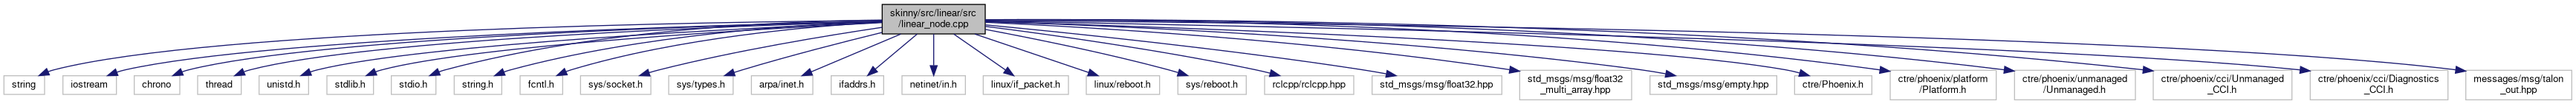
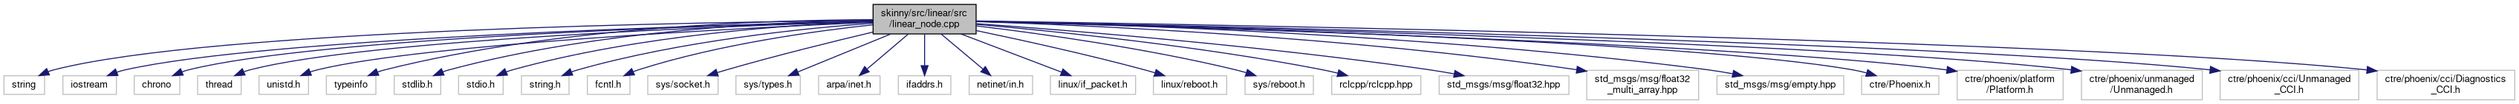
deploy: 15e35bd516d762acbb522a4fcb0b9775ea4a27ae

diff --git a/linear__node_8cpp.html b/linear__node_8cpp.html
@@ -81,6 +81,7 @@ $(function() {
 <code>#include &lt;chrono&gt;</code><br />
 <code>#include &lt;thread&gt;</code><br />
 <code>#include &lt;unistd.h&gt;</code><br />
+<code>#include &lt;typeinfo&gt;</code><br />
 <code>#include &lt;stdlib.h&gt;</code><br />
 <code>#include &lt;stdio.h&gt;</code><br />
 <code>#include &lt;string.h&gt;</code><br />
@@ -102,40 +103,39 @@ $(function() {
 <code>#include &lt;ctre/phoenix/unmanaged/Unmanaged.h&gt;</code><br />
 <code>#include &lt;ctre/phoenix/cci/Unmanaged_CCI.h&gt;</code><br />
 <code>#include &lt;ctre/phoenix/cci/Diagnostics_CCI.h&gt;</code><br />
-<code>#include &quot;messages/msg/talon_out.hpp&quot;</code><br />
 </div><div class="textblock"><div class="dynheader">
 Include dependency graph for linear_node.cpp:</div>
 <div class="dyncontent">
 <div class="center"><img src="linear__node_8cpp__incl.png" border="0" usemap="#askinny_2src_2linear_2src_2linear__node_8cpp" alt=""/></div>
 <map name="askinny_2src_2linear_2src_2linear__node_8cpp" id="askinny_2src_2linear_2src_2linear__node_8cpp">
-<area shape="rect" title="Node controlling one Talon motor controller attached to a linear actuator." alt="" coords="1187,5,1326,47"/>
+<area shape="rect" title="Node controlling one Talon motor controller attached to a linear actuator." alt="" coords="1175,5,1314,47"/>
 <area shape="rect" title=" " alt="" coords="5,102,60,129"/>
 <area shape="rect" title=" " alt="" coords="85,102,157,129"/>
 <area shape="rect" title=" " alt="" coords="181,102,242,129"/>
 <area shape="rect" title=" " alt="" coords="266,102,325,129"/>
 <area shape="rect" title=" " alt="" coords="349,102,415,129"/>
-<area shape="rect" title=" " alt="" coords="440,102,503,129"/>
-<area shape="rect" title=" " alt="" coords="527,102,587,129"/>
-<area shape="rect" title=" " alt="" coords="611,102,675,129"/>
-<area shape="rect" title=" " alt="" coords="700,102,757,129"/>
-<area shape="rect" title=" " alt="" coords="781,102,876,129"/>
-<area shape="rect" title=" " alt="" coords="900,102,987,129"/>
-<area shape="rect" title=" " alt="" coords="1011,102,1094,129"/>
-<area shape="rect" title=" " alt="" coords="1119,102,1189,129"/>
-<area shape="rect" title=" " alt="" coords="1214,102,1299,129"/>
-<area shape="rect" title=" " alt="" coords="1323,102,1438,129"/>
-<area shape="rect" title=" " alt="" coords="1462,102,1561,129"/>
-<area shape="rect" title=" " alt="" coords="1585,102,1677,129"/>
-<area shape="rect" title=" " alt="" coords="1702,102,1822,129"/>
-<area shape="rect" title=" " alt="" coords="1847,102,2021,129"/>
-<area shape="rect" title=" " alt="" coords="2045,95,2196,136"/>
-<area shape="rect" title=" " alt="" coords="2221,102,2391,129"/>
-<area shape="rect" title=" " alt="" coords="2415,102,2519,129"/>
-<area shape="rect" title=" " alt="" coords="2544,95,2687,136"/>
-<area shape="rect" title=" " alt="" coords="2711,95,2874,136"/>
-<area shape="rect" title=" " alt="" coords="2898,95,3085,136"/>
-<area shape="rect" title=" " alt="" coords="3109,95,3295,136"/>
-<area shape="rect" title=" " alt="" coords="3319,95,3461,136"/>
+<area shape="rect" title=" " alt="" coords="439,102,506,129"/>
+<area shape="rect" title=" " alt="" coords="531,102,593,129"/>
+<area shape="rect" title=" " alt="" coords="617,102,677,129"/>
+<area shape="rect" title=" " alt="" coords="702,102,766,129"/>
+<area shape="rect" title=" " alt="" coords="791,102,848,129"/>
+<area shape="rect" title=" " alt="" coords="872,102,967,129"/>
+<area shape="rect" title=" " alt="" coords="991,102,1077,129"/>
+<area shape="rect" title=" " alt="" coords="1102,102,1185,129"/>
+<area shape="rect" title=" " alt="" coords="1209,102,1280,129"/>
+<area shape="rect" title=" " alt="" coords="1305,102,1390,129"/>
+<area shape="rect" title=" " alt="" coords="1414,102,1529,129"/>
+<area shape="rect" title=" " alt="" coords="1553,102,1651,129"/>
+<area shape="rect" title=" " alt="" coords="1676,102,1768,129"/>
+<area shape="rect" title=" " alt="" coords="1793,102,1913,129"/>
+<area shape="rect" title=" " alt="" coords="1937,102,2112,129"/>
+<area shape="rect" title=" " alt="" coords="2136,95,2287,136"/>
+<area shape="rect" title=" " alt="" coords="2311,102,2482,129"/>
+<area shape="rect" title=" " alt="" coords="2506,102,2610,129"/>
+<area shape="rect" title=" " alt="" coords="2635,95,2777,136"/>
+<area shape="rect" title=" " alt="" coords="2802,95,2965,136"/>
+<area shape="rect" title=" " alt="" coords="2989,95,3175,136"/>
+<area shape="rect" title=" " alt="" coords="3200,95,3385,136"/>
 </map>
 </div>
 </div><table class="memberdecls">
@@ -154,10 +154,10 @@ Functions</h2></td></tr>
 <tr class="memitem:a9fa86cd5e61e40487c91964c30a994a5"><td class="memTemplItemLeft" align="right" valign="top">T&#160;</td><td class="memTemplItemRight" valign="bottom"><a class="el" href="linear__node_8cpp.html#a9fa86cd5e61e40487c91964c30a994a5">getParameter</a> (std::string parameterName, std::string initialValue)</td></tr>
 <tr class="memdesc:a9fa86cd5e61e40487c91964c30a994a5"><td class="mdescLeft">&#160;</td><td class="mdescRight">String parameter function.  <a href="linear__node_8cpp.html#a9fa86cd5e61e40487c91964c30a994a5">More...</a><br /></td></tr>
 <tr class="separator:a9fa86cd5e61e40487c91964c30a994a5"><td class="memSeparator" colspan="2">&#160;</td></tr>
-<tr class="memitem:ac65fb8780f198b58ddd2c97239a56a3e"><td class="memTemplParams" colspan="2">template&lt;typename T &gt; </td></tr>
-<tr class="memitem:ac65fb8780f198b58ddd2c97239a56a3e"><td class="memTemplItemLeft" align="right" valign="top">T&#160;</td><td class="memTemplItemRight" valign="bottom"><a class="el" href="linear__node_8cpp.html#ac65fb8780f198b58ddd2c97239a56a3e">getParameter</a> (std::string parameterName, int initialValue, int type)</td></tr>
-<tr class="memdesc:ac65fb8780f198b58ddd2c97239a56a3e"><td class="mdescLeft">&#160;</td><td class="mdescRight">Parameter function.  <a href="linear__node_8cpp.html#ac65fb8780f198b58ddd2c97239a56a3e">More...</a><br /></td></tr>
-<tr class="separator:ac65fb8780f198b58ddd2c97239a56a3e"><td class="memSeparator" colspan="2">&#160;</td></tr>
+<tr class="memitem:aa903d89d8ab094667744020aac5b6ad7"><td class="memTemplParams" colspan="2">template&lt;typename T &gt; </td></tr>
+<tr class="memitem:aa903d89d8ab094667744020aac5b6ad7"><td class="memTemplItemLeft" align="right" valign="top">T&#160;</td><td class="memTemplItemRight" valign="bottom"><a class="el" href="linear__node_8cpp.html#aa903d89d8ab094667744020aac5b6ad7">getParameter</a> (std::string parameterName, int initialValue)</td></tr>
+<tr class="memdesc:aa903d89d8ab094667744020aac5b6ad7"><td class="mdescLeft">&#160;</td><td class="mdescRight">Function to get the value of the specified parameter.  <a href="linear__node_8cpp.html#aa903d89d8ab094667744020aac5b6ad7">More...</a><br /></td></tr>
+<tr class="separator:aa903d89d8ab094667744020aac5b6ad7"><td class="memSeparator" colspan="2">&#160;</td></tr>
 <tr class="memitem:a3c04138a5bfe5d72780bb7e82a18e627"><td class="memItemLeft" align="right" valign="top"><a id="a3c04138a5bfe5d72780bb7e82a18e627" name="a3c04138a5bfe5d72780bb7e82a18e627"></a>
 int&#160;</td><td class="memItemRight" valign="bottom"><b>main</b> (int argc, char **argv)</td></tr>
 <tr class="separator:a3c04138a5bfe5d72780bb7e82a18e627"><td class="memSeparator" colspan="2">&#160;</td></tr>
@@ -198,8 +198,8 @@ TalonSRX *&#160;</td><td class="memItemRight" valign="bottom"><b>talonSRX</b></t
 </ul>
 <p>This string has the general form talon_{motorNumber}_info and is defined by the user in the launch file. To read more about the launch file, </p><dl class="section see"><dt>See also</dt><dd><a class="el" href="launch_8py.html" title="Launch file that contains all the nodes necessary to run the robot.">launch.py</a> </dd></dl>
 </div><h2 class="groupheader">Function Documentation</h2>
-<a id="ac65fb8780f198b58ddd2c97239a56a3e" name="ac65fb8780f198b58ddd2c97239a56a3e"></a>
-<h2 class="memtitle"><span class="permalink"><a href="#ac65fb8780f198b58ddd2c97239a56a3e">&#9670;&nbsp;</a></span>getParameter() <span class="overload">[1/2]</span></h2>
+<a id="aa903d89d8ab094667744020aac5b6ad7" name="aa903d89d8ab094667744020aac5b6ad7"></a>
+<h2 class="memtitle"><span class="permalink"><a href="#aa903d89d8ab094667744020aac5b6ad7">&#9670;&nbsp;</a></span>getParameter() <span class="overload">[1/2]</span></h2>
 
 <div class="memitem">
 <div class="memproto">
@@ -216,13 +216,7 @@ template&lt;typename T &gt; </div>
           <td class="paramkey"></td>
           <td></td>
           <td class="paramtype">int&#160;</td>
-          <td class="paramname"><em>initialValue</em>, </td>
-        </tr>
-        <tr>
-          <td class="paramkey"></td>
-          <td></td>
-          <td class="paramtype">int&#160;</td>
-          <td class="paramname"><em>type</em>&#160;</td>
+          <td class="paramname"><em>initialValue</em>&#160;</td>
         </tr>
         <tr>
           <td></td>
@@ -232,12 +226,11 @@ template&lt;typename T &gt; </div>
       </table>
 </div><div class="memdoc">
 
-<p>Parameter function. </p>
-<p >Function that takes a string as a parameter containing the name of the parameter that is being parsed from the launch file and the initial value of the parameter as inputs, then gets the parameter, casts it as the desired type, displays the value of the parameter on the command line and the log file, then returns the parsed value of the parameter. The type parameter uses the following values: 0 - Int 1 - Bool 2 - Double </p><dl class="params"><dt>Parameters</dt><dd>
+<p>Function to get the value of the specified parameter. </p>
+<p >Function that takes a string as a parameter containing the name of the parameter that is being parsed from the launch file and the initial value of the parameter as inputs, then gets the parameter, casts it as the desired type, displays the value of the parameter on the command line and the log file, then returns the parsed value of the parameter. </p><dl class="params"><dt>Parameters</dt><dd>
   <table class="params">
     <tr><td class="paramname">parametername</td><td>String of the name of the parameter </td></tr>
     <tr><td class="paramname">initialValue</td><td>Initial value of the parameter </td></tr>
-    <tr><td class="paramname">type</td><td>Specifies the desired type </td></tr>
   </table>
   </dd>
 </dl>

diff --git a/talon__node_8cpp.html b/talon__node_8cpp.html
@@ -81,6 +81,7 @@ $(function() {
 <code>#include &lt;chrono&gt;</code><br />
 <code>#include &lt;thread&gt;</code><br />
 <code>#include &lt;unistd.h&gt;</code><br />
+<code>#include &lt;typeinfo&gt;</code><br />
 <code>#include &lt;stdlib.h&gt;</code><br />
 <code>#include &lt;stdio.h&gt;</code><br />
 <code>#include &lt;string.h&gt;</code><br />
@@ -108,34 +109,35 @@ Include dependency graph for talon_node.cpp:</div>
 <div class="dyncontent">
 <div class="center"><img src="talon__node_8cpp__incl.png" border="0" usemap="#askinny_2src_2talon_2src_2talon__node_8cpp" alt=""/></div>
 <map name="askinny_2src_2talon_2src_2talon__node_8cpp" id="askinny_2src_2talon_2src_2talon__node_8cpp">
-<area shape="rect" title="Node controlling one Talon motor." alt="" coords="1189,5,1324,47"/>
+<area shape="rect" title="Node controlling one Talon motor." alt="" coords="1228,5,1363,47"/>
 <area shape="rect" title=" " alt="" coords="5,102,60,129"/>
 <area shape="rect" title=" " alt="" coords="85,102,157,129"/>
 <area shape="rect" title=" " alt="" coords="181,102,242,129"/>
 <area shape="rect" title=" " alt="" coords="266,102,325,129"/>
 <area shape="rect" title=" " alt="" coords="349,102,415,129"/>
-<area shape="rect" title=" " alt="" coords="440,102,503,129"/>
-<area shape="rect" title=" " alt="" coords="527,102,587,129"/>
-<area shape="rect" title=" " alt="" coords="611,102,675,129"/>
-<area shape="rect" title=" " alt="" coords="700,102,757,129"/>
-<area shape="rect" title=" " alt="" coords="781,102,876,129"/>
-<area shape="rect" title=" " alt="" coords="900,102,987,129"/>
-<area shape="rect" title=" " alt="" coords="1011,102,1094,129"/>
-<area shape="rect" title=" " alt="" coords="1119,102,1189,129"/>
-<area shape="rect" title=" " alt="" coords="1214,102,1299,129"/>
-<area shape="rect" title=" " alt="" coords="1323,102,1438,129"/>
-<area shape="rect" title=" " alt="" coords="1462,102,1561,129"/>
-<area shape="rect" title=" " alt="" coords="1585,102,1677,129"/>
-<area shape="rect" title=" " alt="" coords="1702,102,1822,129"/>
-<area shape="rect" title=" " alt="" coords="1847,102,2021,129"/>
-<area shape="rect" title=" " alt="" coords="2045,95,2196,136"/>
-<area shape="rect" title=" " alt="" coords="2221,102,2391,129"/>
-<area shape="rect" title=" " alt="" coords="2415,102,2519,129"/>
-<area shape="rect" title=" " alt="" coords="2544,95,2687,136"/>
-<area shape="rect" title=" " alt="" coords="2711,95,2874,136"/>
-<area shape="rect" title=" " alt="" coords="2898,95,3085,136"/>
-<area shape="rect" title=" " alt="" coords="3109,95,3295,136"/>
-<area shape="rect" title=" " alt="" coords="3319,95,3461,136"/>
+<area shape="rect" title=" " alt="" coords="439,102,506,129"/>
+<area shape="rect" title=" " alt="" coords="531,102,593,129"/>
+<area shape="rect" title=" " alt="" coords="617,102,677,129"/>
+<area shape="rect" title=" " alt="" coords="702,102,766,129"/>
+<area shape="rect" title=" " alt="" coords="791,102,848,129"/>
+<area shape="rect" title=" " alt="" coords="872,102,967,129"/>
+<area shape="rect" title=" " alt="" coords="991,102,1077,129"/>
+<area shape="rect" title=" " alt="" coords="1102,102,1185,129"/>
+<area shape="rect" title=" " alt="" coords="1209,102,1280,129"/>
+<area shape="rect" title=" " alt="" coords="1305,102,1390,129"/>
+<area shape="rect" title=" " alt="" coords="1414,102,1529,129"/>
+<area shape="rect" title=" " alt="" coords="1553,102,1651,129"/>
+<area shape="rect" title=" " alt="" coords="1676,102,1768,129"/>
+<area shape="rect" title=" " alt="" coords="1793,102,1913,129"/>
+<area shape="rect" title=" " alt="" coords="1937,102,2112,129"/>
+<area shape="rect" title=" " alt="" coords="2136,95,2287,136"/>
+<area shape="rect" title=" " alt="" coords="2311,102,2482,129"/>
+<area shape="rect" title=" " alt="" coords="2506,102,2610,129"/>
+<area shape="rect" title=" " alt="" coords="2635,95,2777,136"/>
+<area shape="rect" title=" " alt="" coords="2802,95,2965,136"/>
+<area shape="rect" title=" " alt="" coords="2989,95,3175,136"/>
+<area shape="rect" title=" " alt="" coords="3200,95,3385,136"/>
+<area shape="rect" title=" " alt="" coords="3409,95,3552,136"/>
 </map>
 </div>
 </div><table class="memberdecls">
@@ -154,10 +156,10 @@ Functions</h2></td></tr>
 <tr class="memitem:a9fa86cd5e61e40487c91964c30a994a5"><td class="memTemplItemLeft" align="right" valign="top">T&#160;</td><td class="memTemplItemRight" valign="bottom"><a class="el" href="talon__node_8cpp.html#a9fa86cd5e61e40487c91964c30a994a5">getParameter</a> (std::string parameterName, std::string initialValue)</td></tr>
 <tr class="memdesc:a9fa86cd5e61e40487c91964c30a994a5"><td class="mdescLeft">&#160;</td><td class="mdescRight">String parameter function.  <a href="talon__node_8cpp.html#a9fa86cd5e61e40487c91964c30a994a5">More...</a><br /></td></tr>
 <tr class="separator:a9fa86cd5e61e40487c91964c30a994a5"><td class="memSeparator" colspan="2">&#160;</td></tr>
-<tr class="memitem:ac65fb8780f198b58ddd2c97239a56a3e"><td class="memTemplParams" colspan="2">template&lt;typename T &gt; </td></tr>
-<tr class="memitem:ac65fb8780f198b58ddd2c97239a56a3e"><td class="memTemplItemLeft" align="right" valign="top">T&#160;</td><td class="memTemplItemRight" valign="bottom"><a class="el" href="talon__node_8cpp.html#ac65fb8780f198b58ddd2c97239a56a3e">getParameter</a> (std::string parameterName, int initialValue, int type)</td></tr>
-<tr class="memdesc:ac65fb8780f198b58ddd2c97239a56a3e"><td class="mdescLeft">&#160;</td><td class="mdescRight">Parameter function.  <a href="talon__node_8cpp.html#ac65fb8780f198b58ddd2c97239a56a3e">More...</a><br /></td></tr>
-<tr class="separator:ac65fb8780f198b58ddd2c97239a56a3e"><td class="memSeparator" colspan="2">&#160;</td></tr>
+<tr class="memitem:aa903d89d8ab094667744020aac5b6ad7"><td class="memTemplParams" colspan="2">template&lt;typename T &gt; </td></tr>
+<tr class="memitem:aa903d89d8ab094667744020aac5b6ad7"><td class="memTemplItemLeft" align="right" valign="top">T&#160;</td><td class="memTemplItemRight" valign="bottom"><a class="el" href="talon__node_8cpp.html#aa903d89d8ab094667744020aac5b6ad7">getParameter</a> (std::string parameterName, int initialValue)</td></tr>
+<tr class="memdesc:aa903d89d8ab094667744020aac5b6ad7"><td class="mdescLeft">&#160;</td><td class="mdescRight">Function to get the value of the specified parameter.  <a href="talon__node_8cpp.html#aa903d89d8ab094667744020aac5b6ad7">More...</a><br /></td></tr>
+<tr class="separator:aa903d89d8ab094667744020aac5b6ad7"><td class="memSeparator" colspan="2">&#160;</td></tr>
 <tr class="memitem:a3c04138a5bfe5d72780bb7e82a18e627"><td class="memItemLeft" align="right" valign="top"><a id="a3c04138a5bfe5d72780bb7e82a18e627" name="a3c04138a5bfe5d72780bb7e82a18e627"></a>
 int&#160;</td><td class="memItemRight" valign="bottom"><b>main</b> (int argc, char **argv)</td></tr>
 <tr class="separator:a3c04138a5bfe5d72780bb7e82a18e627"><td class="memSeparator" colspan="2">&#160;</td></tr>
@@ -198,8 +200,8 @@ TalonSRX *&#160;</td><td class="memItemRight" valign="bottom"><b>talonSRX</b></t
 </ul>
 <p>This string has the general form talon_{motorNumber}_info and is defined by the user in the launch file. To read more about the launch file, </p><dl class="section see"><dt>See also</dt><dd><a class="el" href="launch_8py.html" title="Launch file that contains all the nodes necessary to run the robot.">launch.py</a> </dd></dl>
 </div><h2 class="groupheader">Function Documentation</h2>
-<a id="ac65fb8780f198b58ddd2c97239a56a3e" name="ac65fb8780f198b58ddd2c97239a56a3e"></a>
-<h2 class="memtitle"><span class="permalink"><a href="#ac65fb8780f198b58ddd2c97239a56a3e">&#9670;&nbsp;</a></span>getParameter() <span class="overload">[1/2]</span></h2>
+<a id="aa903d89d8ab094667744020aac5b6ad7" name="aa903d89d8ab094667744020aac5b6ad7"></a>
+<h2 class="memtitle"><span class="permalink"><a href="#aa903d89d8ab094667744020aac5b6ad7">&#9670;&nbsp;</a></span>getParameter() <span class="overload">[1/2]</span></h2>
 
 <div class="memitem">
 <div class="memproto">
@@ -216,13 +218,7 @@ template&lt;typename T &gt; </div>
           <td class="paramkey"></td>
           <td></td>
           <td class="paramtype">int&#160;</td>
-          <td class="paramname"><em>initialValue</em>, </td>
-        </tr>
-        <tr>
-          <td class="paramkey"></td>
-          <td></td>
-          <td class="paramtype">int&#160;</td>
-          <td class="paramname"><em>type</em>&#160;</td>
+          <td class="paramname"><em>initialValue</em>&#160;</td>
         </tr>
         <tr>
           <td></td>
@@ -232,12 +228,11 @@ template&lt;typename T &gt; </div>
       </table>
 </div><div class="memdoc">
 
-<p>Parameter function. </p>
-<p >Function that takes a string as a parameter containing the name of the parameter that is being parsed from the launch file and the initial value of the parameter as inputs, then gets the parameter, casts it as the desired type, displays the value of the parameter on the command line and the log file, then returns the parsed value of the parameter. The type parameter uses the following values: 0 - Int 1 - Bool 2 - Double </p><dl class="params"><dt>Parameters</dt><dd>
+<p>Function to get the value of the specified parameter. </p>
+<p >Function that takes a string as a parameter containing the name of the parameter that is being parsed from the launch file and the initial value of the parameter as inputs, then gets the parameter, casts it as the desired type, displays the value of the parameter on the command line and the log file, then returns the parsed value of the parameter. </p><dl class="params"><dt>Parameters</dt><dd>
   <table class="params">
     <tr><td class="paramname">parametername</td><td>String of the name of the parameter </td></tr>
     <tr><td class="paramname">initialValue</td><td>Initial value of the parameter </td></tr>
-    <tr><td class="paramname">type</td><td>Specifies the desired type </td></tr>
   </table>
   </dd>
 </dl>

diff --git a/neo__node_8cpp.html b/neo__node_8cpp.html
@@ -80,6 +80,7 @@ $(function() {
 <code>#include &lt;chrono&gt;</code><br />
 <code>#include &lt;thread&gt;</code><br />
 <code>#include &lt;unistd.h&gt;</code><br />
+<code>#include &lt;typeinfo&gt;</code><br />
 <code>#include &lt;stdlib.h&gt;</code><br />
 <code>#include &lt;stdio.h&gt;</code><br />
 <code>#include &lt;string.h&gt;</code><br />
@@ -102,29 +103,30 @@ Include dependency graph for neo_node.cpp:</div>
 <div class="dyncontent">
 <div class="center"><img src="neo__node_8cpp__incl.png" border="0" usemap="#askinny_2src_2neo_2src_2neo__node_8cpp" alt=""/></div>
 <map name="askinny_2src_2neo_2src_2neo__node_8cpp" id="askinny_2src_2neo_2src_2neo__node_8cpp">
-<area shape="rect" title="Node controlling one Neo motor." alt="" coords="934,5,1062,47"/>
+<area shape="rect" title="Node controlling one Neo motor." alt="" coords="970,5,1098,47"/>
 <area shape="rect" title=" " alt="" coords="5,102,60,129"/>
 <area shape="rect" title=" " alt="" coords="85,102,157,129"/>
 <area shape="rect" title=" " alt="" coords="181,102,242,129"/>
 <area shape="rect" title=" " alt="" coords="266,102,325,129"/>
 <area shape="rect" title=" " alt="" coords="349,102,415,129"/>
-<area shape="rect" title=" " alt="" coords="440,102,503,129"/>
-<area shape="rect" title=" " alt="" coords="527,102,587,129"/>
-<area shape="rect" title=" " alt="" coords="611,102,675,129"/>
-<area shape="rect" title=" " alt="" coords="700,102,757,129"/>
-<area shape="rect" title=" " alt="" coords="781,102,876,129"/>
-<area shape="rect" title=" " alt="" coords="900,102,987,129"/>
-<area shape="rect" title=" " alt="" coords="1011,102,1094,129"/>
-<area shape="rect" title=" " alt="" coords="1119,102,1189,129"/>
-<area shape="rect" title=" " alt="" coords="1214,102,1299,129"/>
-<area shape="rect" title=" " alt="" coords="1323,102,1438,129"/>
-<area shape="rect" title=" " alt="" coords="1462,102,1561,129"/>
-<area shape="rect" title=" " alt="" coords="1585,102,1677,129"/>
-<area shape="rect" title=" " alt="" coords="1702,102,1822,129"/>
-<area shape="rect" title=" " alt="" coords="1847,102,2021,129"/>
-<area shape="rect" title=" " alt="" coords="2045,95,2196,136"/>
-<area shape="rect" title=" " alt="" coords="2221,102,2391,129"/>
-<area shape="rect" title=" " alt="" coords="2416,102,2556,129"/>
+<area shape="rect" title=" " alt="" coords="439,102,506,129"/>
+<area shape="rect" title=" " alt="" coords="531,102,593,129"/>
+<area shape="rect" title=" " alt="" coords="617,102,677,129"/>
+<area shape="rect" title=" " alt="" coords="702,102,766,129"/>
+<area shape="rect" title=" " alt="" coords="791,102,848,129"/>
+<area shape="rect" title=" " alt="" coords="872,102,967,129"/>
+<area shape="rect" title=" " alt="" coords="991,102,1077,129"/>
+<area shape="rect" title=" " alt="" coords="1102,102,1185,129"/>
+<area shape="rect" title=" " alt="" coords="1209,102,1280,129"/>
+<area shape="rect" title=" " alt="" coords="1305,102,1390,129"/>
+<area shape="rect" title=" " alt="" coords="1414,102,1529,129"/>
+<area shape="rect" title=" " alt="" coords="1553,102,1651,129"/>
+<area shape="rect" title=" " alt="" coords="1676,102,1768,129"/>
+<area shape="rect" title=" " alt="" coords="1793,102,1913,129"/>
+<area shape="rect" title=" " alt="" coords="1937,102,2112,129"/>
+<area shape="rect" title=" " alt="" coords="2136,95,2287,136"/>
+<area shape="rect" title=" " alt="" coords="2311,102,2482,129"/>
+<area shape="rect" title=" " alt="" coords="2507,102,2647,129"/>
 </map>
 </div>
 </div><table class="memberdecls">
@@ -143,10 +145,10 @@ Functions</h2></td></tr>
 <tr class="memitem:a9fa86cd5e61e40487c91964c30a994a5"><td class="memTemplItemLeft" align="right" valign="top">T&#160;</td><td class="memTemplItemRight" valign="bottom"><a class="el" href="neo__node_8cpp.html#a9fa86cd5e61e40487c91964c30a994a5">getParameter</a> (std::string parameterName, std::string initialValue)</td></tr>
 <tr class="memdesc:a9fa86cd5e61e40487c91964c30a994a5"><td class="mdescLeft">&#160;</td><td class="mdescRight">String parameter function.  <a href="neo__node_8cpp.html#a9fa86cd5e61e40487c91964c30a994a5">More...</a><br /></td></tr>
 <tr class="separator:a9fa86cd5e61e40487c91964c30a994a5"><td class="memSeparator" colspan="2">&#160;</td></tr>
-<tr class="memitem:ac65fb8780f198b58ddd2c97239a56a3e"><td class="memTemplParams" colspan="2">template&lt;typename T &gt; </td></tr>
-<tr class="memitem:ac65fb8780f198b58ddd2c97239a56a3e"><td class="memTemplItemLeft" align="right" valign="top">T&#160;</td><td class="memTemplItemRight" valign="bottom"><a class="el" href="neo__node_8cpp.html#ac65fb8780f198b58ddd2c97239a56a3e">getParameter</a> (std::string parameterName, int initialValue, int type)</td></tr>
-<tr class="memdesc:ac65fb8780f198b58ddd2c97239a56a3e"><td class="mdescLeft">&#160;</td><td class="mdescRight">Parameter function.  <a href="neo__node_8cpp.html#ac65fb8780f198b58ddd2c97239a56a3e">More...</a><br /></td></tr>
-<tr class="separator:ac65fb8780f198b58ddd2c97239a56a3e"><td class="memSeparator" colspan="2">&#160;</td></tr>
+<tr class="memitem:aa903d89d8ab094667744020aac5b6ad7"><td class="memTemplParams" colspan="2">template&lt;typename T &gt; </td></tr>
+<tr class="memitem:aa903d89d8ab094667744020aac5b6ad7"><td class="memTemplItemLeft" align="right" valign="top">T&#160;</td><td class="memTemplItemRight" valign="bottom"><a class="el" href="neo__node_8cpp.html#aa903d89d8ab094667744020aac5b6ad7">getParameter</a> (std::string parameterName, int initialValue)</td></tr>
+<tr class="memdesc:aa903d89d8ab094667744020aac5b6ad7"><td class="mdescLeft">&#160;</td><td class="mdescRight">Function to get the value of the specified parameter.  <a href="neo__node_8cpp.html#aa903d89d8ab094667744020aac5b6ad7">More...</a><br /></td></tr>
+<tr class="separator:aa903d89d8ab094667744020aac5b6ad7"><td class="memSeparator" colspan="2">&#160;</td></tr>
 <tr class="memitem:a3c04138a5bfe5d72780bb7e82a18e627"><td class="memItemLeft" align="right" valign="top"><a id="a3c04138a5bfe5d72780bb7e82a18e627" name="a3c04138a5bfe5d72780bb7e82a18e627"></a>
 int&#160;</td><td class="memItemRight" valign="bottom"><b>main</b> (int argc, char **argv)</td></tr>
 <tr class="separator:a3c04138a5bfe5d72780bb7e82a18e627"><td class="memSeparator" colspan="2">&#160;</td></tr>
@@ -187,8 +189,8 @@ TalonSRX *&#160;</td><td class="memItemRight" valign="bottom"><b>talonSRX</b></t
 </ul>
 <p>This string has the general form neo_{motorNumber}_info and is defined by the user in the launch file. To read more about the launch file, </p><dl class="section see"><dt>See also</dt><dd><a class="el" href="launch_8py.html" title="Launch file that contains all the nodes necessary to run the robot.">launch.py</a> </dd></dl>
 </div><h2 class="groupheader">Function Documentation</h2>
-<a id="ac65fb8780f198b58ddd2c97239a56a3e" name="ac65fb8780f198b58ddd2c97239a56a3e"></a>
-<h2 class="memtitle"><span class="permalink"><a href="#ac65fb8780f198b58ddd2c97239a56a3e">&#9670;&nbsp;</a></span>getParameter() <span class="overload">[1/2]</span></h2>
+<a id="aa903d89d8ab094667744020aac5b6ad7" name="aa903d89d8ab094667744020aac5b6ad7"></a>
+<h2 class="memtitle"><span class="permalink"><a href="#aa903d89d8ab094667744020aac5b6ad7">&#9670;&nbsp;</a></span>getParameter() <span class="overload">[1/2]</span></h2>
 
 <div class="memitem">
 <div class="memproto">
@@ -205,13 +207,7 @@ template&lt;typename T &gt; </div>
           <td class="paramkey"></td>
           <td></td>
           <td class="paramtype">int&#160;</td>
-          <td class="paramname"><em>initialValue</em>, </td>
-        </tr>
-        <tr>
-          <td class="paramkey"></td>
-          <td></td>
-          <td class="paramtype">int&#160;</td>
-          <td class="paramname"><em>type</em>&#160;</td>
+          <td class="paramname"><em>initialValue</em>&#160;</td>
         </tr>
         <tr>
           <td></td>
@@ -221,12 +217,11 @@ template&lt;typename T &gt; </div>
       </table>
 </div><div class="memdoc">
 
-<p>Parameter function. </p>
-<p >Function that takes a string as a parameter containing the name of the parameter that is being parsed from the launch file and the initial value of the parameter as inputs, then gets the parameter, casts it as the desired type, displays the value of the parameter on the command line and the log file, then returns the parsed value of the parameter. The type parameter uses the following values: 0 - Int 1 - Bool 2 - Double </p><dl class="params"><dt>Parameters</dt><dd>
+<p>Function to get the value of the specified parameter. </p>
+<p >Function that takes a string as a parameter containing the name of the parameter that is being parsed from the launch file and the initial value of the parameter as inputs, then gets the parameter, casts it as the desired type, displays the value of the parameter on the command line and the log file, then returns the parsed value of the parameter. </p><dl class="params"><dt>Parameters</dt><dd>
   <table class="params">
     <tr><td class="paramname">parametername</td><td>String of the name of the parameter </td></tr>
     <tr><td class="paramname">initialValue</td><td>Initial value of the parameter </td></tr>
-    <tr><td class="paramname">type</td><td>Specifies the desired type </td></tr>
   </table>
   </dd>
 </dl>

diff --git a/search/all_5.js b/search/all_5.js
@@ -4,7 +4,7 @@ var searchData=
   ['getcurrenta_1',['getCurrentA',['../classPowerDistributionPanel.html#a2a62d2a9aca9bf110bfa661d3b04a998',1,'PowerDistributionPanel']]],
   ['getcurrentb_2',['getCurrentB',['../classPowerDistributionPanel.html#a086f8d6f814c2118bcdfa601580a487f',1,'PowerDistributionPanel']]],
   ['getcurrentc_3',['getCurrentC',['../classPowerDistributionPanel.html#a3b3f2339b1083c762c7ac00f5e55f357',1,'PowerDistributionPanel']]],
-  ['getparameter_4',['getParameter',['../talon__node_8cpp.html#a9fa86cd5e61e40487c91964c30a994a5',1,'getParameter(std::string parameterName, std::string initialValue):&#160;talon_node.cpp'],['../talon__node_8cpp.html#ac65fb8780f198b58ddd2c97239a56a3e',1,'getParameter(std::string parameterName, int initialValue, int type):&#160;talon_node.cpp'],['../neo__node_8cpp.html#a9fa86cd5e61e40487c91964c30a994a5',1,'getParameter(std::string parameterName, std::string initialValue):&#160;neo_node.cpp'],['../neo__node_8cpp.html#ac65fb8780f198b58ddd2c97239a56a3e',1,'getParameter(std::string parameterName, int initialValue, int type):&#160;neo_node.cpp'],['../linear__node_8cpp.html#a9fa86cd5e61e40487c91964c30a994a5',1,'getParameter(std::string parameterName, std::string initialValue):&#160;linear_node.cpp'],['../linear__node_8cpp.html#ac65fb8780f198b58ddd2c97239a56a3e',1,'getParameter(std::string parameterName, int initialValue, int type):&#160;linear_node.cpp']]],
+  ['getparameter_4',['getParameter',['../talon__node_8cpp.html#a9fa86cd5e61e40487c91964c30a994a5',1,'getParameter(std::string parameterName, std::string initialValue):&#160;talon_node.cpp'],['../talon__node_8cpp.html#aa903d89d8ab094667744020aac5b6ad7',1,'getParameter(std::string parameterName, int initialValue):&#160;talon_node.cpp'],['../neo__node_8cpp.html#a9fa86cd5e61e40487c91964c30a994a5',1,'getParameter(std::string parameterName, std::string initialValue):&#160;neo_node.cpp'],['../neo__node_8cpp.html#aa903d89d8ab094667744020aac5b6ad7',1,'getParameter(std::string parameterName, int initialValue):&#160;neo_node.cpp'],['../linear__node_8cpp.html#a9fa86cd5e61e40487c91964c30a994a5',1,'getParameter(std::string parameterName, std::string initialValue):&#160;linear_node.cpp'],['../linear__node_8cpp.html#aa903d89d8ab094667744020aac5b6ad7',1,'getParameter(std::string parameterName, int initialValue):&#160;linear_node.cpp']]],
   ['getvoltage_5',['getVoltage',['../classPowerDistributionPanel.html#a29a4967626121a40e31b9d585383fba1',1,'PowerDistributionPanel']]],
   ['gocallback_6',['goCallback',['../talon__node_8cpp.html#a96020b6787543d826dbba7ce88bf0d7c',1,'goCallback(std_msgs::msg::Empty::SharedPtr empty):&#160;talon_node.cpp'],['../neo__node_8cpp.html#a96020b6787543d826dbba7ce88bf0d7c',1,'goCallback(std_msgs::msg::Empty::SharedPtr empty):&#160;neo_node.cpp'],['../linear__node_8cpp.html#a96020b6787543d826dbba7ce88bf0d7c',1,'goCallback(std_msgs::msg::Empty::SharedPtr empty):&#160;linear_node.cpp']]]
 ];

diff --git a/search/functions_3.js b/search/functions_3.js
@@ -4,7 +4,7 @@ var searchData=
   ['getcurrenta_1',['getCurrentA',['../classPowerDistributionPanel.html#a2a62d2a9aca9bf110bfa661d3b04a998',1,'PowerDistributionPanel']]],
   ['getcurrentb_2',['getCurrentB',['../classPowerDistributionPanel.html#a086f8d6f814c2118bcdfa601580a487f',1,'PowerDistributionPanel']]],
   ['getcurrentc_3',['getCurrentC',['../classPowerDistributionPanel.html#a3b3f2339b1083c762c7ac00f5e55f357',1,'PowerDistributionPanel']]],
-  ['getparameter_4',['getParameter',['../talon__node_8cpp.html#a9fa86cd5e61e40487c91964c30a994a5',1,'getParameter(std::string parameterName, std::string initialValue):&#160;talon_node.cpp'],['../talon__node_8cpp.html#ac65fb8780f198b58ddd2c97239a56a3e',1,'getParameter(std::string parameterName, int initialValue, int type):&#160;talon_node.cpp'],['../neo__node_8cpp.html#a9fa86cd5e61e40487c91964c30a994a5',1,'getParameter(std::string parameterName, std::string initialValue):&#160;neo_node.cpp'],['../neo__node_8cpp.html#ac65fb8780f198b58ddd2c97239a56a3e',1,'getParameter(std::string parameterName, int initialValue, int type):&#160;neo_node.cpp'],['../linear__node_8cpp.html#a9fa86cd5e61e40487c91964c30a994a5',1,'getParameter(std::string parameterName, std::string initialValue):&#160;linear_node.cpp'],['../linear__node_8cpp.html#ac65fb8780f198b58ddd2c97239a56a3e',1,'getParameter(std::string parameterName, int initialValue, int type):&#160;linear_node.cpp']]],
+  ['getparameter_4',['getParameter',['../talon__node_8cpp.html#a9fa86cd5e61e40487c91964c30a994a5',1,'getParameter(std::string parameterName, std::string initialValue):&#160;talon_node.cpp'],['../talon__node_8cpp.html#aa903d89d8ab094667744020aac5b6ad7',1,'getParameter(std::string parameterName, int initialValue):&#160;talon_node.cpp'],['../neo__node_8cpp.html#a9fa86cd5e61e40487c91964c30a994a5',1,'getParameter(std::string parameterName, std::string initialValue):&#160;neo_node.cpp'],['../neo__node_8cpp.html#aa903d89d8ab094667744020aac5b6ad7',1,'getParameter(std::string parameterName, int initialValue):&#160;neo_node.cpp'],['../linear__node_8cpp.html#a9fa86cd5e61e40487c91964c30a994a5',1,'getParameter(std::string parameterName, std::string initialValue):&#160;linear_node.cpp'],['../linear__node_8cpp.html#aa903d89d8ab094667744020aac5b6ad7',1,'getParameter(std::string parameterName, int initialValue):&#160;linear_node.cpp']]],
   ['getvoltage_5',['getVoltage',['../classPowerDistributionPanel.html#a29a4967626121a40e31b9d585383fba1',1,'PowerDistributionPanel']]],
   ['gocallback_6',['goCallback',['../talon__node_8cpp.html#a96020b6787543d826dbba7ce88bf0d7c',1,'goCallback(std_msgs::msg::Empty::SharedPtr empty):&#160;talon_node.cpp'],['../neo__node_8cpp.html#a96020b6787543d826dbba7ce88bf0d7c',1,'goCallback(std_msgs::msg::Empty::SharedPtr empty):&#160;neo_node.cpp'],['../linear__node_8cpp.html#a96020b6787543d826dbba7ce88bf0d7c',1,'goCallback(std_msgs::msg::Empty::SharedPtr empty):&#160;linear_node.cpp']]]
 ];
